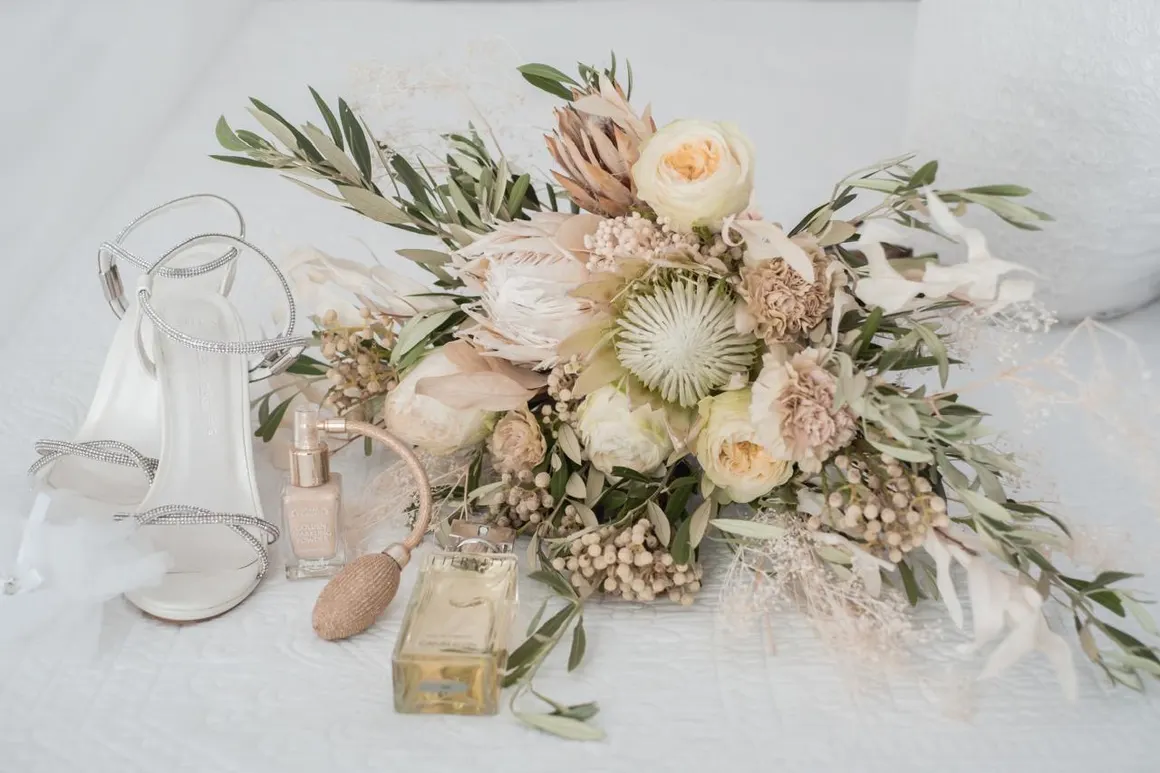
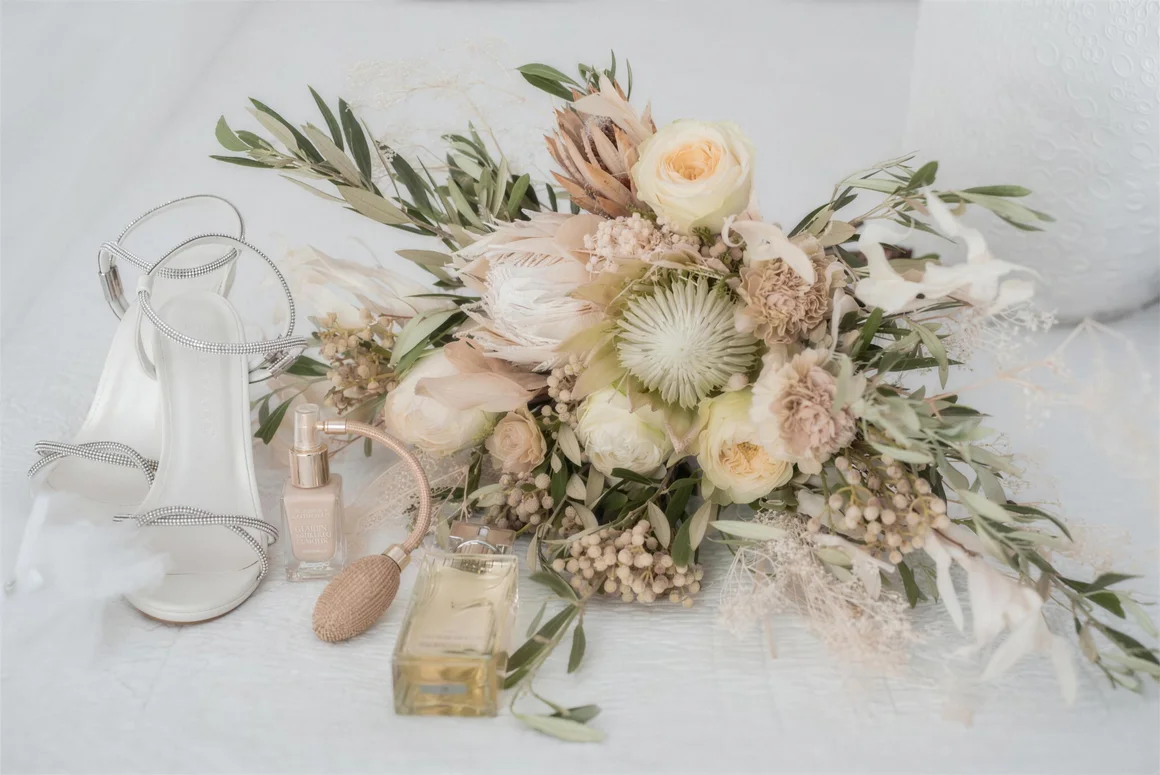
AI-upscale the hero photo to fix softness on large/retina screens
The bridal flatlay source topped out at 1280px wide (the largest any
photo in this asset library reaches), which looked visibly soft once
stretched full-bleed on wide or high-DPI screens. Upscaled it with an
AI upscaler to 4096x2737 and regenerated the responsive sizes from
that (480/800/1160 for the existing About/Gallery thumbnails, plus
1920/2400 for the full-bleed hero), so the same real photo now holds
up sharp at every size it's used.

Claude-Session: https://claude.ai/code/session_018ATwJzNiz4VThJ8VVeV6HX

diff --git a/index.html b/index.html
@@ -19,7 +19,7 @@
   <meta name="twitter:card" content="summary_large_image">
   <link rel="preload" href="/fonts/gambetta-500.woff2" as="font" type="font/woff2" crossorigin>
   <link rel="preload" href="/fonts/general-sans-400.woff2" as="font" type="font/woff2" crossorigin>
-  <link rel="preload" href="/images/gallery/weddings/dried-neutral-01-1160.webp" as="image" fetchpriority="high" imagesrcset="/images/gallery/weddings/dried-neutral-01-480.webp 480w, /images/gallery/weddings/dried-neutral-01-800.webp 800w, /images/gallery/weddings/dried-neutral-01-1160.webp 1160w, /images/gallery/weddings/dried-neutral-01-1280.webp 1280w" imagesizes="100vw">
+  <link rel="preload" href="/images/gallery/weddings/dried-neutral-01-1160.webp" as="image" fetchpriority="high" imagesrcset="/images/gallery/weddings/dried-neutral-01-480.webp 480w, /images/gallery/weddings/dried-neutral-01-800.webp 800w, /images/gallery/weddings/dried-neutral-01-1160.webp 1160w, /images/gallery/weddings/dried-neutral-01-1920.webp 1920w, /images/gallery/weddings/dried-neutral-01-2400.webp 2400w" imagesizes="100vw">
   <link rel="stylesheet" href="/css/theme.css">
   <script type="application/ld+json">
   {
@@ -98,7 +98,7 @@
         </svg>
       </div>
       <div class="hero-bg" aria-hidden="true">
-        <img src="/images/gallery/weddings/dried-neutral-01-1160.webp" srcset="/images/gallery/weddings/dried-neutral-01-480.webp 480w, /images/gallery/weddings/dried-neutral-01-800.webp 800w, /images/gallery/weddings/dried-neutral-01-1160.webp 1160w, /images/gallery/weddings/dried-neutral-01-1280.webp 1280w" sizes="100vw" width="1280" height="853" alt="" fetchpriority="high">
+        <img src="/images/gallery/weddings/dried-neutral-01-1160.webp" srcset="/images/gallery/weddings/dried-neutral-01-480.webp 480w, /images/gallery/weddings/dried-neutral-01-800.webp 800w, /images/gallery/weddings/dried-neutral-01-1160.webp 1160w, /images/gallery/weddings/dried-neutral-01-1920.webp 1920w, /images/gallery/weddings/dried-neutral-01-2400.webp 2400w" sizes="100vw" width="4096" height="2737" alt="" fetchpriority="high">
       </div>
       <div class="wrap">
         <div class="hero-content">
